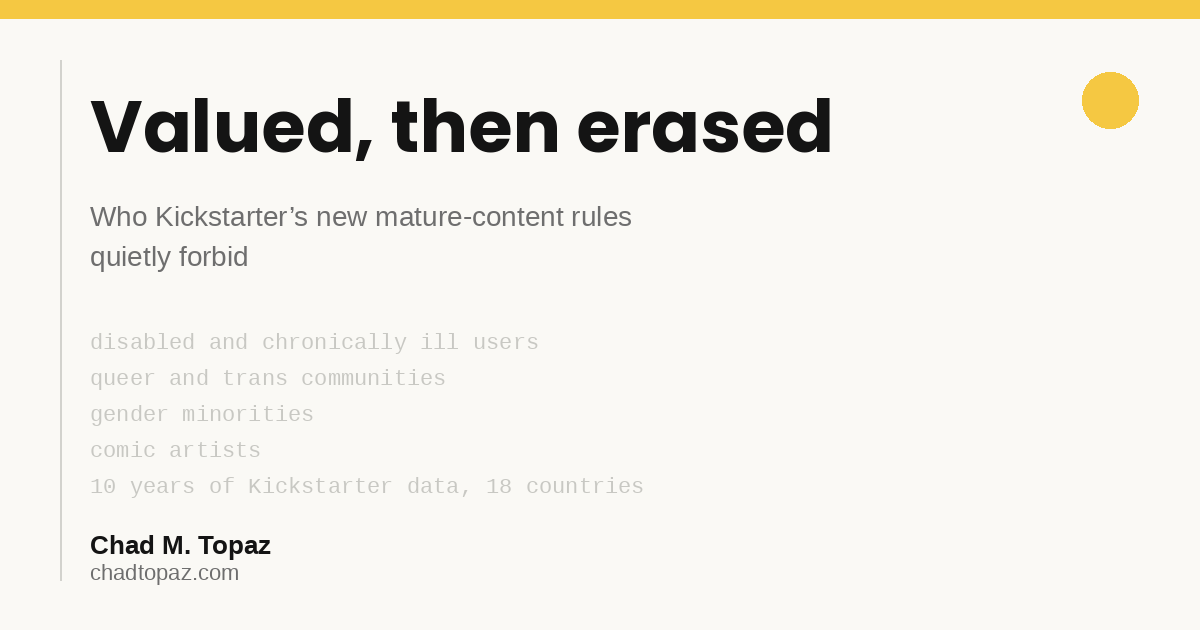
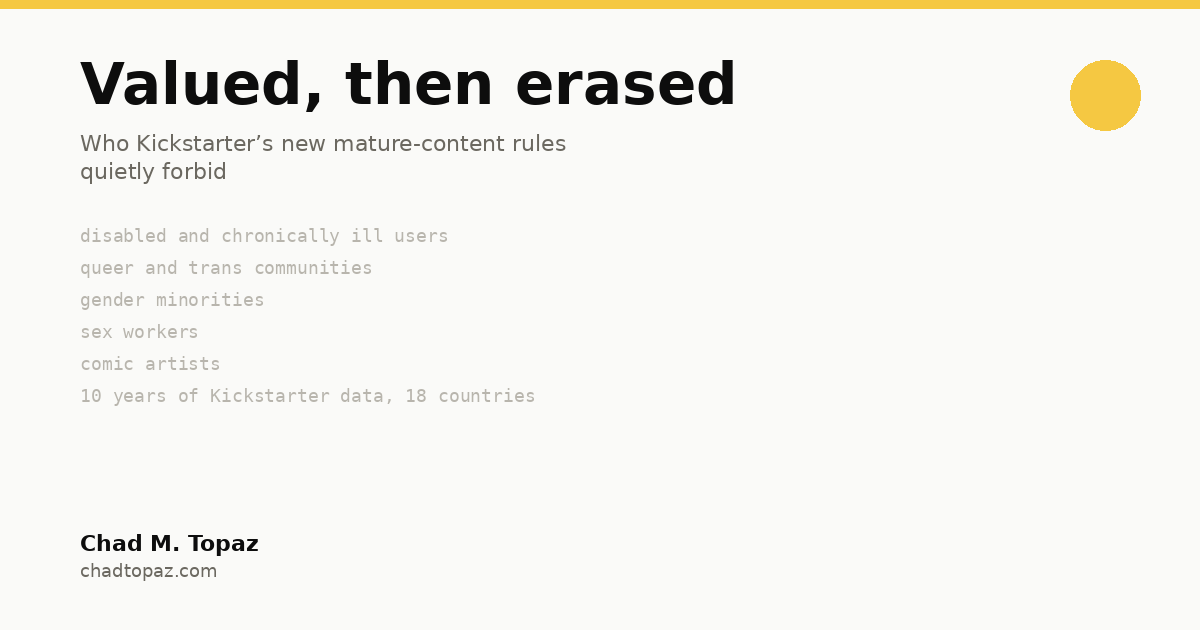
Update Kickstarter essay text and OG image; move Essays under Research nav

diff --git a/essays/kickstarter-mature-content.html b/essays/kickstarter-mature-content.html
@@ -125,39 +125,39 @@
 
 <p>I scanned historical Kickstarter project listings from late 2016 through April 2026 &mdash; eleven monthly snapshots covering the full decade for which public scrape data is available. I made a list of roughly a hundred words and phrases drawn straight from the new policy text, and looked for projects whose titles or short descriptions used that language. Some of it is unambiguous. A project titled <em>SuperHeroes After Dark: XXX Anthology Comic</em>, or one promising &ldquo;the first dildo for your love life,&rdquo; is targeted exactly as the new rules describe. Other terms only matter in context. The policy allows &ldquo;nude&rdquo; in documentary photography or figure drawing but bans it when genitalia is the focal point. It allows &ldquo;romance,&rdquo; but flags projects whose copy promises explicit content. For every ambiguous case I read the actual project against the actual policy and made the call. Along the way I discarded false positives that the language alone could not distinguish: band names that contain banned vocabulary (<em>Pink Industrial Whores</em>), parody comics (<em>Star Whores</em>, <em>The Mandawhorian</em>), survivor memoirs that reclaim the policy&rsquo;s banned words, documentaries about porn-industry figures, and dozens of dating-app metaphors aimed at pets or real estate rather than people.</p>
 
-<p>The resulting set is deliberately conservative. It includes only projects whose own titles or short descriptions contain language the new rules unambiguously target, which means it almost certainly undercounts. Image-based violations, long-form pitch text, and reward-tier text are all outside its reach.</p>
+<p>The resulting set is deliberately conservative. It includes only projects whose own titles or short descriptions contain language the new rules unambiguously target. I only analyzed project titles and short descriptions, not images, long-form pitch text, or reward-tier text, so the true count is almost certainly higher.</p>
 
-<p>One thing to be clear about. These projects were funded under the old rules. None of them has been retroactively removed, and Kickstarter has announced no plans to revisit campaigns that ran before May 2026. The argument that follows is not about what the platform has enforced. It is about what the new rules&rsquo; text, read straight, would not permit. The calls about which projects fall on which side of that line are mine. They are not infallible.</p>
+<p>One thing to be clear about. These projects were funded under the old rules. None of them has been retroactively removed, and Kickstarter has announced no plans to revisit campaigns that ran before May 2026. I can&rsquo;t know what the platform will actually ban moving forward, so my results below are about what the new rules&rsquo; text would likely not permit.</p>
 
 <h2>The count</h2>
 
-<p>The classifier identified <strong>248 projects across the decade that the new rules forbid as written</strong>. Among those, 37 were successfully funded, raising a combined <strong>$894,895</strong>.</p>
+<p>I identified <strong>248 projects across the decade that the new rules forbid as written</strong>. Among those, 37 were successfully funded, raising a combined <strong>$894,895</strong>.</p>
 
-<p>That count obscures more than it reveals. 210 of the 248 projects &mdash; 85 percent &mdash; are dating apps and hookup platforms. Almost all of them failed. The seven that succeeded raised $113,472 between them. The remaining 38 projects &mdash; mature creative work and sex-tech products &mdash; account for 30 of the 37 successful campaigns and $781,423 of the $894,895 in pledged funding.</p>
+<p>That count obscures more than it reveals. 210 of the 248 projects &mdash; 85 percent &mdash; are dating apps and hookup platforms. Almost all of them failed to achieve their funding goals. The seven that succeeded raised $113,472 between them. The remaining 38 projects &mdash; mature creative work and sex-tech products &mdash; account for 30 of the 37 successful campaigns and $781,423 of the $894,895 in pledged funding.</p>
 
 <p>Fifteen percent of the affected projects represent 87 percent of the dollars.</p>
 
-<p>The dating-app bucket is loud but mostly empty. The smaller bucket is where the policy bites.</p>
+<p>Most of the affected projects are dating apps that never got funded. The policy&rsquo;s real impact is on the smaller group: mature creative work and sex-tech products.</p>
 
 <h2>Twenty for twenty</h2>
 
-<p>Of the twenty erotic and adult comic projects the classifier confirmed as violations, every single one was successfully funded. Twenty for twenty.</p>
+<p>Of the twenty erotic and adult comic projects I flagged as likely violations, every single one was successfully funded. Twenty for twenty.</p>
 
 <p>This is not a fringe set. These artists return to Kickstarter year after year. Spicehouse, the studio behind the <em>MILF Submarine</em> series, has run multiple funded volumes plus a spinoff on the platform. The artist who publishes under the name rootdraws has funded multiple installments of <em>Pornoscopes</em>, a series of astrological adult comics. shadedraws&rsquo;s <em>SuperHeroes After Dark</em> anthologies have raised nearly $90,000 across three volumes. Larry Welz&rsquo;s <em>Cherry&rsquo;s Jubilee Collection &mdash; NSFW Cover Edition</em>, a 144-page anthology, raised $16,345 in 2024. The <em>Food Porn Anthology</em>, a lady-created, queer-friendly erotic comics anthology, raised $33,351 in 2015.</p>
 
-<p>How much of these artists&rsquo; income flows through Kickstarter, the public data cannot say. The campaigns recur. The dollar totals are not nominal. The new rules close that model.</p>
+<p>How much of these artists&rsquo; income flows through Kickstarter, the public data cannot say. Many of these artists ran campaigns repeatedly, raising real money each time. The new rules would shut that down.</p>
 
 <h2>The vulva clause</h2>
 
 <p>The new imagery rule prohibits &ldquo;imagery where genitalia is the focal point.&rdquo; The accompanying creator guide expands: prohibited nudity is &ldquo;inclusive of female nipples/areolas, genitalia, anuses, gluteal cleft (buttocks).&rdquo; Female nipples and areolas are named specifically. Male anatomy is not.</p>
 
-<p>The asymmetry shows up in the data. Among the confirmed violations: <em>The Vulva Diversity Book &mdash; celebrating our uniqueness</em>, a coffee-table book of vulva casts ($34,328 raised in 2021). <em>{Un}Inhibited: An Asian Vulva Photo Book</em> ($5,540 in 2018). <em>The Vulva Gallery Book &mdash; Improving sexual health education</em> ($63,799 in 2018, the largest of the group). <em>What Do You Like About Your Vulva and Vagina?</em>, a poster project illustrating women&rsquo;s positive descriptions of their bodies ($6,782 in 2013). <em>My Vulva: the book</em>, in Kickstarter&rsquo;s Children&rsquo;s Books subcategory ($5,351 in 2021). A six-foot vulva statue in support of Texas Women ($1,844 in 2014). An inflatable clitoris sculpture for educational use ($5,230 in 2025).</p>
+<p>The asymmetry shows up in the data. Among the projects the new rules would likely forbid: <em>The Vulva Diversity Book &mdash; celebrating our uniqueness</em>, a coffee-table book of vulva casts ($34,328 raised in 2021). <em>{Un}Inhibited: An Asian Vulva Photo Book</em> ($5,540 in 2018). <em>The Vulva Gallery Book &mdash; Improving sexual health education</em> ($63,799 in 2018, the largest of the group). <em>What Do You Like About Your Vulva and Vagina?</em>, a poster project illustrating women&rsquo;s positive descriptions of their bodies ($6,782 in 2013). <em>My Vulva: the book</em>, in Kickstarter&rsquo;s Children&rsquo;s Books subcategory ($5,351 in 2021). A six-foot vulva statue in support of Texas Women ($1,844 in 2014). An inflatable clitoris sculpture for educational use ($5,230 in 2025).</p>
 
-<p>Body-positive art projects centered on the female body &mdash; many of them women-led &mdash; now forbidden by the rules&rsquo; text. The data contain no comparable cluster of male-anatomy projects, while the policy&rsquo;s language singles out female nipples and areolas by name.</p>
+<p>Art projects centered on the female body, many of them body-positive and women-led, fall on the wrong side of the imagery rule. The data contain no comparable cluster of male-anatomy projects, while the policy&rsquo;s language singles out female nipples and areolas by name.</p>
 
 <h2>Not Tinder</h2>
 
-<p>The 210 dating apps in the violation set are mostly forgettable failures: another startup with swipe-but-better energy that never raised more than a few hundred dollars. But scattered among them are the apps that serve people the mass market doesn&rsquo;t.</p>
+<p>The 210 dating apps I flagged are mostly forgettable failures: another startup with swipe-but-better energy that never raised more than a few hundred dollars. But scattered among them are the apps that serve people the mass market doesn&rsquo;t.</p>
 
 <p>Several of them explicitly target people the mass-market apps do not accommodate well. <em>Not Alone</em>, <em>His &amp; Herpes</em>, <em>Lemonayde</em>, <em>Positive Plus 1</em>, <em>A Dating App Empowering Love Beyond Health Challenges</em>, and a free online HIV/AIDS site are all built for adults living with STDs. The German <em>Eine Dating App f&uuml;r Menschen mit Erkrankungen</em> is for people with serious illness &mdash; HIV, cancer, dementia. <em>Soberse</em> matches sober and recovering people. <em>Love &amp; Ability</em> is for people with disabilities. <em>FlameVee</em> is for Deaf and signing users. <em>Love Is Blind</em>, despite its title, is a dating app designed for blind and visually impaired users.</p>
 
@@ -169,15 +169,13 @@
 
 <h2>Sex-worker writing</h2>
 
-<p>A strict reading of the rules excludes some categories of work that nevertheless live in the policy&rsquo;s shadow.</p>
+<p>Not every affected project falls cleanly inside the new rules. <em>Modern Whore: A Memoir</em>, by sex worker Andrea Werhun and filmmaker Nicole Bazuin, raised $17,303 in 2017. The expanded edition raised an additional $28,016 in 2020. <em>Transactional Intercourse</em>, a trans and intersex sex worker anthology published from London, raised $25,800 in 2025. None of these would likely be banned under the new rules. They are memoirs, anthologies, and art books, not projects selling access to explicit sexual content.</p>
 
-<p><em>Modern Whore: A Memoir</em>, by sex worker Andrea Werhun and filmmaker Nicole Bazuin, raised $17,303 in 2017. The expanded edition raised an additional $28,016 in 2020. <em>Transactional Intercourse</em>, a trans and intersex sex worker anthology published from London, raised $25,800 in 2025. None of these are direct violations under the new rules. They are memoirs, anthologies, and art books, not projects selling access to explicit sexual content.</p>
-
-<p>But their framing relies on reclaimed vocabulary the policy expressly flags. &ldquo;Whore,&rdquo; in the policy&rsquo;s copywriting section, is named as one of the words to avoid. The policy distinguishes between offering banned content and using flagged vocabulary to discuss something else. Sex-worker self-representation lives precisely at that line. A future project in this genre that uses the same reclaimed vocabulary runs straight into it, with the chilling effect that comes with such a line being drawn.</p>
+<p>The problem is the vocabulary. These projects use reclaimed words&thinsp;&mdash;&thinsp;&ldquo;whore,&rdquo; specifically&thinsp;&mdash;&thinsp;that the policy names as language to avoid. The policy does distinguish between offering banned content and using flagged vocabulary to discuss something else. But sex-worker self-representation lives right at that line, and a future project in this genre that uses the same reclaimed language runs straight into it. That&rsquo;s a chilling effect, even if it&rsquo;s not a ban.</p>
 
 <h2>Outside the US</h2>
 
-<p>The affected creators are scattered across 18 countries. Most are in the United States &mdash; 162 of 248. But 22 are in the United Kingdom, 11 in Australia, 10 in Canada, eight each in Germany and France, five in Singapore, four each in Italy and the Netherlands, two each in Sweden, Japan, Hong Kong, and Denmark, plus single cases in Poland, Spain, Mexico, Ireland, and Switzerland.</p>
+<p>The creators who would be affected are scattered across 18 countries. Most are in the United States &mdash; 162 of 248. But 22 are in the United Kingdom, 11 in Australia, 10 in Canada, eight each in Germany and France, five in Singapore, four each in Italy and the Netherlands, two each in Sweden, Japan, Hong Kong, and Denmark, plus single cases in Poland, Spain, Mexico, Ireland, and Switzerland.</p>
 
 <p>A US platform&rsquo;s content policy now governs access to a major creative-funding channel worldwide. The German app for chronically ill people seeking partners; the Italian erotic art books; the Japanese <em>MILF Master</em> erotic chat game ($33,080, Tokyo, 2020); the Singapore-based <em>One Date</em> platform &mdash; none have meaningful recourse within the platform. They were not consulted. They are not bound by US obscenity law. They are governed by Kickstarter&rsquo;s terms of service, written in Brooklyn, applied globally.</p>
 
